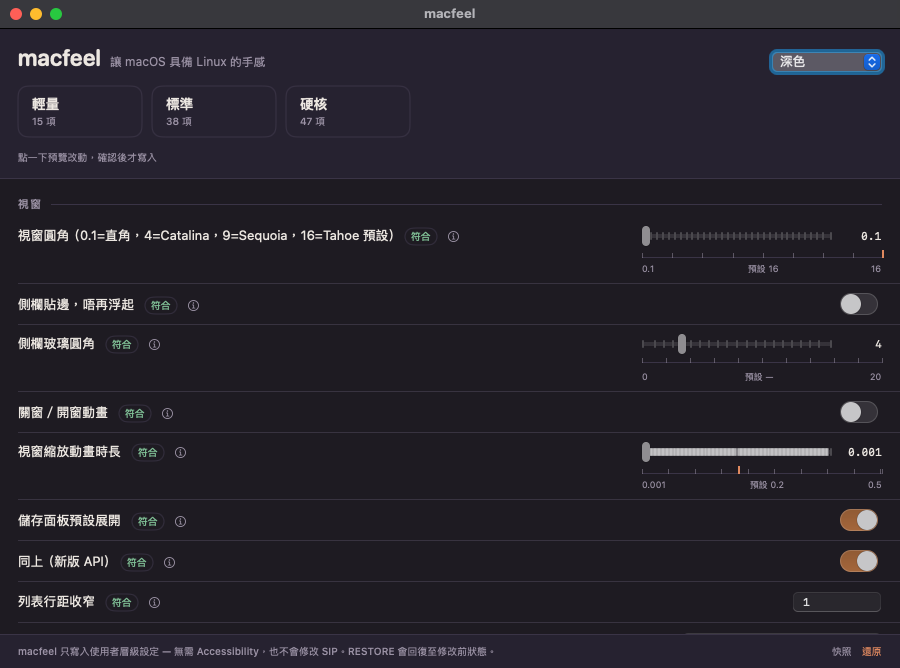
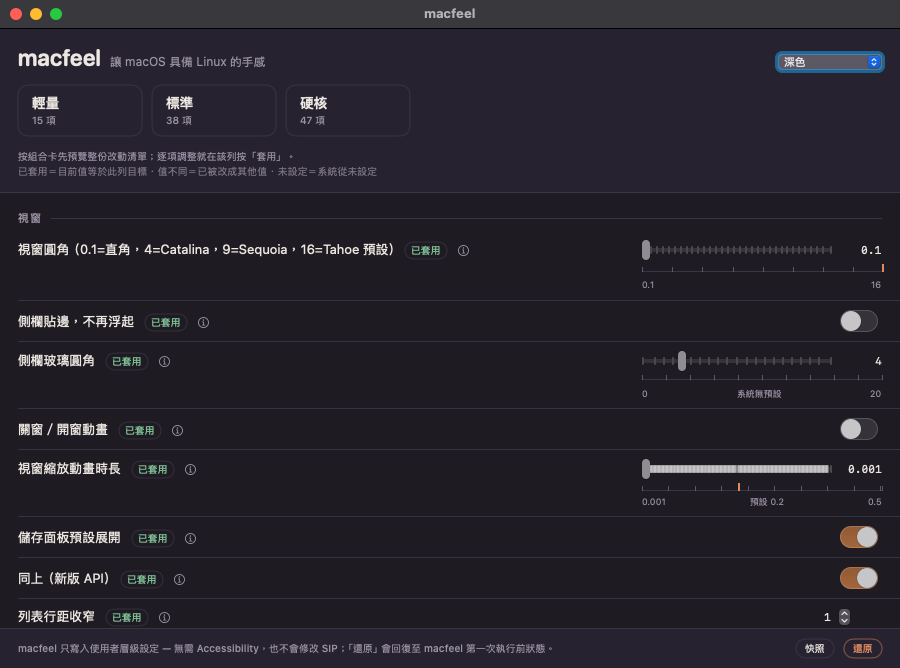
app: ui polish, stable theme store, explicit write/read parity test
- theme preference moved to a named suite: UserDefaults.standard did not
  survive switching between the direct and the sandbox build
- snapshot stores canonical values (display text is localised and was not
  parseable, which made restore delete boolean keys)
- slider rows: stock label hidden when it sits on an endpoint; stepper for
  integer rows without a range; footer actions are real buttons
- --write-test / --env modes so a sandboxed build can be proven to write the
  real preference domain
- docs: refreshed screenshots, privacy/support pages, sandbox findings

diff --git a/app/Sources/Views.swift b/app/Sources/Views.swift
@@ -2,16 +2,39 @@
 
 import SwiftUI
 
+/// Theme preference. A named suite, not `UserDefaults.standard`: the standard
+/// domain moves when the bundle id or the sandbox container changes between the
+/// Developer ID build and the App Store build, which made the saved theme look
+/// like it reset itself.
+enum AppSettings {
+    static let suite = "com.kinfxhk.macfeel.settings"
+
+    static var store: UserDefaults { UserDefaults(suiteName: suite) ?? .standard }
+
+    static var theme: ThemeMode {
+        get { ThemeMode(rawValue: store.string(forKey: "theme") ?? "auto") ?? .auto }
+        set { store.set(newValue.rawValue, forKey: "theme") }
+    }
+}
+
 struct RootView: View {
     @ObservedObject var engine: Engine
 
-    @State private var themeMode: ThemeMode = ThemeMode(rawValue: UserDefaults.standard.string(forKey: "theme") ?? "auto") ?? .auto
+    @State private var themeMode: ThemeMode = AppSettings.theme
     @State private var expanded: Set<String> = []
     @State private var presetLevel: String?
     @State private var confirmingRestore = false
-    @AppStorage("theme") private var storedTheme: String = "auto"
+    @State private var hoveredLevel: String?
 
     private var catalog: Catalog { engine.catalog }
+
+    private var colorScheme: ColorScheme? {
+        switch themeMode {
+        case .auto: return nil
+        case .light: return .light
+        case .dark: return .dark
+        }
+    }
 
     var body: some View {
         VStack(spacing: 0) {
@@ -34,8 +57,15 @@ struct RootView: View {
         }
         .background(Palette.paper)
         .tint(Palette.accent)
+        .preferredColorScheme(colorScheme)
         .frame(minWidth: 760, minHeight: 640)
-        .onAppear { ThemeMode.apply(storedTheme); themeMode = ThemeMode(rawValue: storedTheme) ?? .auto }
+        .onAppear {
+            themeMode = AppSettings.theme
+            // NSApp.appearance paints the titlebar and controls; doing it inside the
+            // first layout pass is what makes it stick (setting it in App.init is
+            // overwritten while the scene is still being built).
+            DispatchQueue.main.async { ThemeMode.apply(AppSettings.theme.rawValue) }
+        }
         .sheet(item: Binding(get: { presetLevel.map { PresetRequest(level: $0) } },
                              set: { presetLevel = $0?.level })) { request in
             ChangeSheet(engine: engine,
@@ -58,14 +88,15 @@ struct RootView: View {
                 Spacer()
                 Picker("", selection: Binding(get: { themeMode }, set: { mode in
                     themeMode = mode
-                    storedTheme = mode.rawValue
+                    AppSettings.theme = mode
                     ThemeMode.apply(mode.rawValue)
                 })) {
                     ForEach(ThemeMode.allCases, id: \.self) { Text($0.label).tag($0) }
                 }
                 .pickerStyle(.menu)
                 .labelsHidden()
-                .frame(width: 110)
+                .controlSize(.small)
+                .frame(width: 104)
             }
 
             HStack(spacing: 10) {
@@ -80,18 +111,24 @@ struct RootView: View {
                         .frame(width: 96, alignment: .leading)
                         .padding(.vertical, 9)
                         .padding(.horizontal, 14)
-                        .background(RoundedRectangle(cornerRadius: 10).fill(Palette.nav))
-                        .overlay(RoundedRectangle(cornerRadius: 10).stroke(Palette.rule, lineWidth: 1))
+                        .background(RoundedRectangle(cornerRadius: 10)
+                            .fill(hoveredLevel == level ? Palette.accent.opacity(0.14) : Palette.nav))
+                        .overlay(RoundedRectangle(cornerRadius: 10)
+                            .stroke(hoveredLevel == level ? Palette.accent.opacity(0.7) : Palette.rule, lineWidth: 1))
                         .foregroundStyle(Palette.ink)
+                        .contentShape(RoundedRectangle(cornerRadius: 10))
                     }
                     .buttonStyle(.plain)
+                    .onHover { inside in hoveredLevel = inside ? level : (hoveredLevel == level ? nil : hoveredLevel) }
                 }
                 Spacer()
             }
 
-            HStack(spacing: 6) {
-                Text("點一下預覽改動，確認後才寫入").font(.system(size: 10)).foregroundStyle(Palette.muted)
-                Spacer()
+            VStack(alignment: .leading, spacing: 2) {
+                Text("按組合卡先預覽整份改動清單；逐項調整就在該列按「套用」。")
+                    .font(.system(size: 10)).foregroundStyle(Palette.muted)
+                Text("已套用＝目前值等於此列目標 · 值不同＝已被改成其他值 · 未設定＝系統從未設定")
+                    .font(.system(size: 10)).foregroundStyle(Palette.muted.opacity(0.75))
             }
         }
         .padding(.horizontal, 18)
@@ -124,9 +161,13 @@ struct RootView: View {
             }
             Spacer()
             Button("快照") { engine.takeSnapshot(); engine.note("已建立快照") }
-                .buttonStyle(.plain).font(.caption).foregroundStyle(Palette.muted)
+                .buttonStyle(.plain).font(.caption).foregroundStyle(Palette.ink)
+                .padding(.horizontal, 9).padding(.vertical, 3)
+                .overlay(Capsule().stroke(Palette.rule, lineWidth: 1))
             Button("還原") { confirmingRestore = true }
-                .buttonStyle(.plain).font(.caption).foregroundStyle(Palette.accent)
+                .buttonStyle(.plain).font(.caption.weight(.semibold)).foregroundStyle(Palette.accent)
+                .padding(.horizontal, 9).padding(.vertical, 3)
+                .overlay(Capsule().stroke(Palette.accent.opacity(0.55), lineWidth: 1))
                 .confirmationDialog("還原到最早的快照？", isPresented: $confirmingRestore) {
                     Button("還原所有改動", role: .destructive) { engine.restoreEarliest() }
                     Button("取消", role: .cancel) {}
@@ -206,7 +247,7 @@ struct RowView: View {
             if current == nil {
                 Text("未設定").foregroundStyle(Palette.muted)
             } else if engine.matchesTarget(tweak) {
-                Text("符合").foregroundStyle(Palette.ok)
+                Text("已套用").foregroundStyle(Palette.ok)
             } else {
                 Text("值不同").foregroundStyle(Palette.warn)
             }
@@ -249,12 +290,21 @@ struct RowView: View {
                     HStack {
                         Text(TweakValue.trim(range.min)).font(.system(size: 9)).foregroundStyle(Palette.muted)
                         Spacer()
-                        Text("預設 \(tweak.stockValue?.display ?? "—")")
+                        Text(stockLabel(range))
                             .font(.system(size: 9)).foregroundStyle(Palette.muted)
                         Spacer()
                         Text(TweakValue.trim(range.max)).font(.system(size: 9)).foregroundStyle(Palette.muted)
                     }
                 }
+            } else if tweak.type == .int {
+                Stepper(value: Binding(
+                    get: { Int(shown.display) ?? 0 },
+                    set: { pending = .int($0) }), in: 0...100) {
+                    Text(shown.display)
+                        .font(.system(size: 11, design: .monospaced))
+                        .foregroundStyle(Palette.ink)
+                }
+                .controlSize(.small)
             } else {
                 TextField("", text: Binding(
                     get: { shown.display },
@@ -266,6 +316,14 @@ struct RowView: View {
                 .font(.system(size: 11, design: .monospaced))
             }
         }
+    }
+
+    /// Centre label under a slider: the stock value, unless it sits on an endpoint
+    /// (then the accent tick already says it and the text would read as a duplicate).
+    private func stockLabel(_ range: (min: Double, max: Double, step: Double)) -> String {
+        guard let stock = tweak.stockValue else { return "系統無預設" }
+        if let n = stock.number, abs(n - range.min) < 0.0001 || abs(n - range.max) < 0.0001 { return "" }
+        return "預設 \(stock.display)"
     }
 
     private var detail: some View {

diff --git a/app/Sources/main.swift b/app/Sources/main.swift
@@ -40,6 +40,36 @@ let exitCode: Int32? = MainActor.assumeIsolated {
         return 0
     }
 
+    if arguments.contains("--env") {
+        print("bundle=\(Bundle.main.bundleIdentifier ?? "nil")")
+        print("standard.theme=\(UserDefaults.standard.string(forKey: "theme") ?? "nil")")
+        print("settings.theme=\(AppSettings.theme.rawValue)")
+        print("sandboxed=\(BackendFactory.isSandboxed) backend=\(BackendFactory.make().name)")
+        return 0
+    }
+
+    if arguments.contains("--write-test") {
+        // Proves the shipping build can really write another app's domain: write a
+        // throwaway key to com.apple.dock, read it back through the backend, delete it.
+        let backend = BackendFactory.make()
+        let probe = Tweak(id: "write.probe", profiles: [], domain: "com.apple.dock",
+                          key: "macfeelWriteProbe", type: .string, value: .string("1"),
+                          needs: "-", label: "probe")
+        backend.delete(probe)
+        try? backend.write(probe, .string("1"))
+        let landed = backend.exportDomain("com.apple.dock")["macfeelWriteProbe"].flatMap(TweakValue.from)
+        // MACFEEL_KEEP_PROBE=1 leaves the key behind so an unsandboxed shell can
+        // read the real plist — the only way to prove a sandboxed write escaped
+        // its container.
+        if ProcessInfo.processInfo.environment["MACFEEL_KEEP_PROBE"] != "1" {
+            backend.delete(probe)
+        }
+        let clean = backend.exportDomain("com.apple.dock")["macfeelWriteProbe"] == nil
+        print("\(landed?.matches(.string("1")) == true ? "PASS" : "FAIL")\tcom.apple.dock write\tread=\(landed?.display ?? "nil")")
+        print("\(clean ? "PASS" : "FAIL")\tcom.apple.dock cleanup")
+        return (landed != nil && clean) ? 0 : 1
+    }
+
     if let i = arguments.firstIndex(of: "--plan"), i + 1 < arguments.count {
         let level = arguments[i + 1]
         let engine = Engine(catalog: catalog, backend: BackendFactory.make())

diff --git a/docs/mas-sandbox-findings.md b/docs/mas-sandbox-findings.md
@@ -52,6 +52,21 @@ like it works and change nothing.
   the exception lists and fails for the rest — but it is pointless inside the sandbox;
   the CFPreferences path is the one to ship.
 
+## Verified with the shipping binary
+
+`macfeel --write-test` writes a throwaway key to `com.apple.dock`, reads it back through the
+backend and removes it. Run against the **sandbox-signed** `macfeel.app`:
+
+```
+PASS  com.apple.dock write   read=1        # backend's own read
+$ defaults read com.apple.dock macfeelWriteProbe
+1                                          # read from an unsandboxed shell — it really landed
+```
+
+So the sandbox build (`CFBackend`, pure CFPreferences) does write the real preference domain,
+not just its container — provided the entitlement list above is present. Run the same command
+without the exception entitlement and the key never appears outside the container.
+
 ## Consequence for the product
 
 One SwiftUI shell, two backends (`app/Sources/Backend.swift`):
